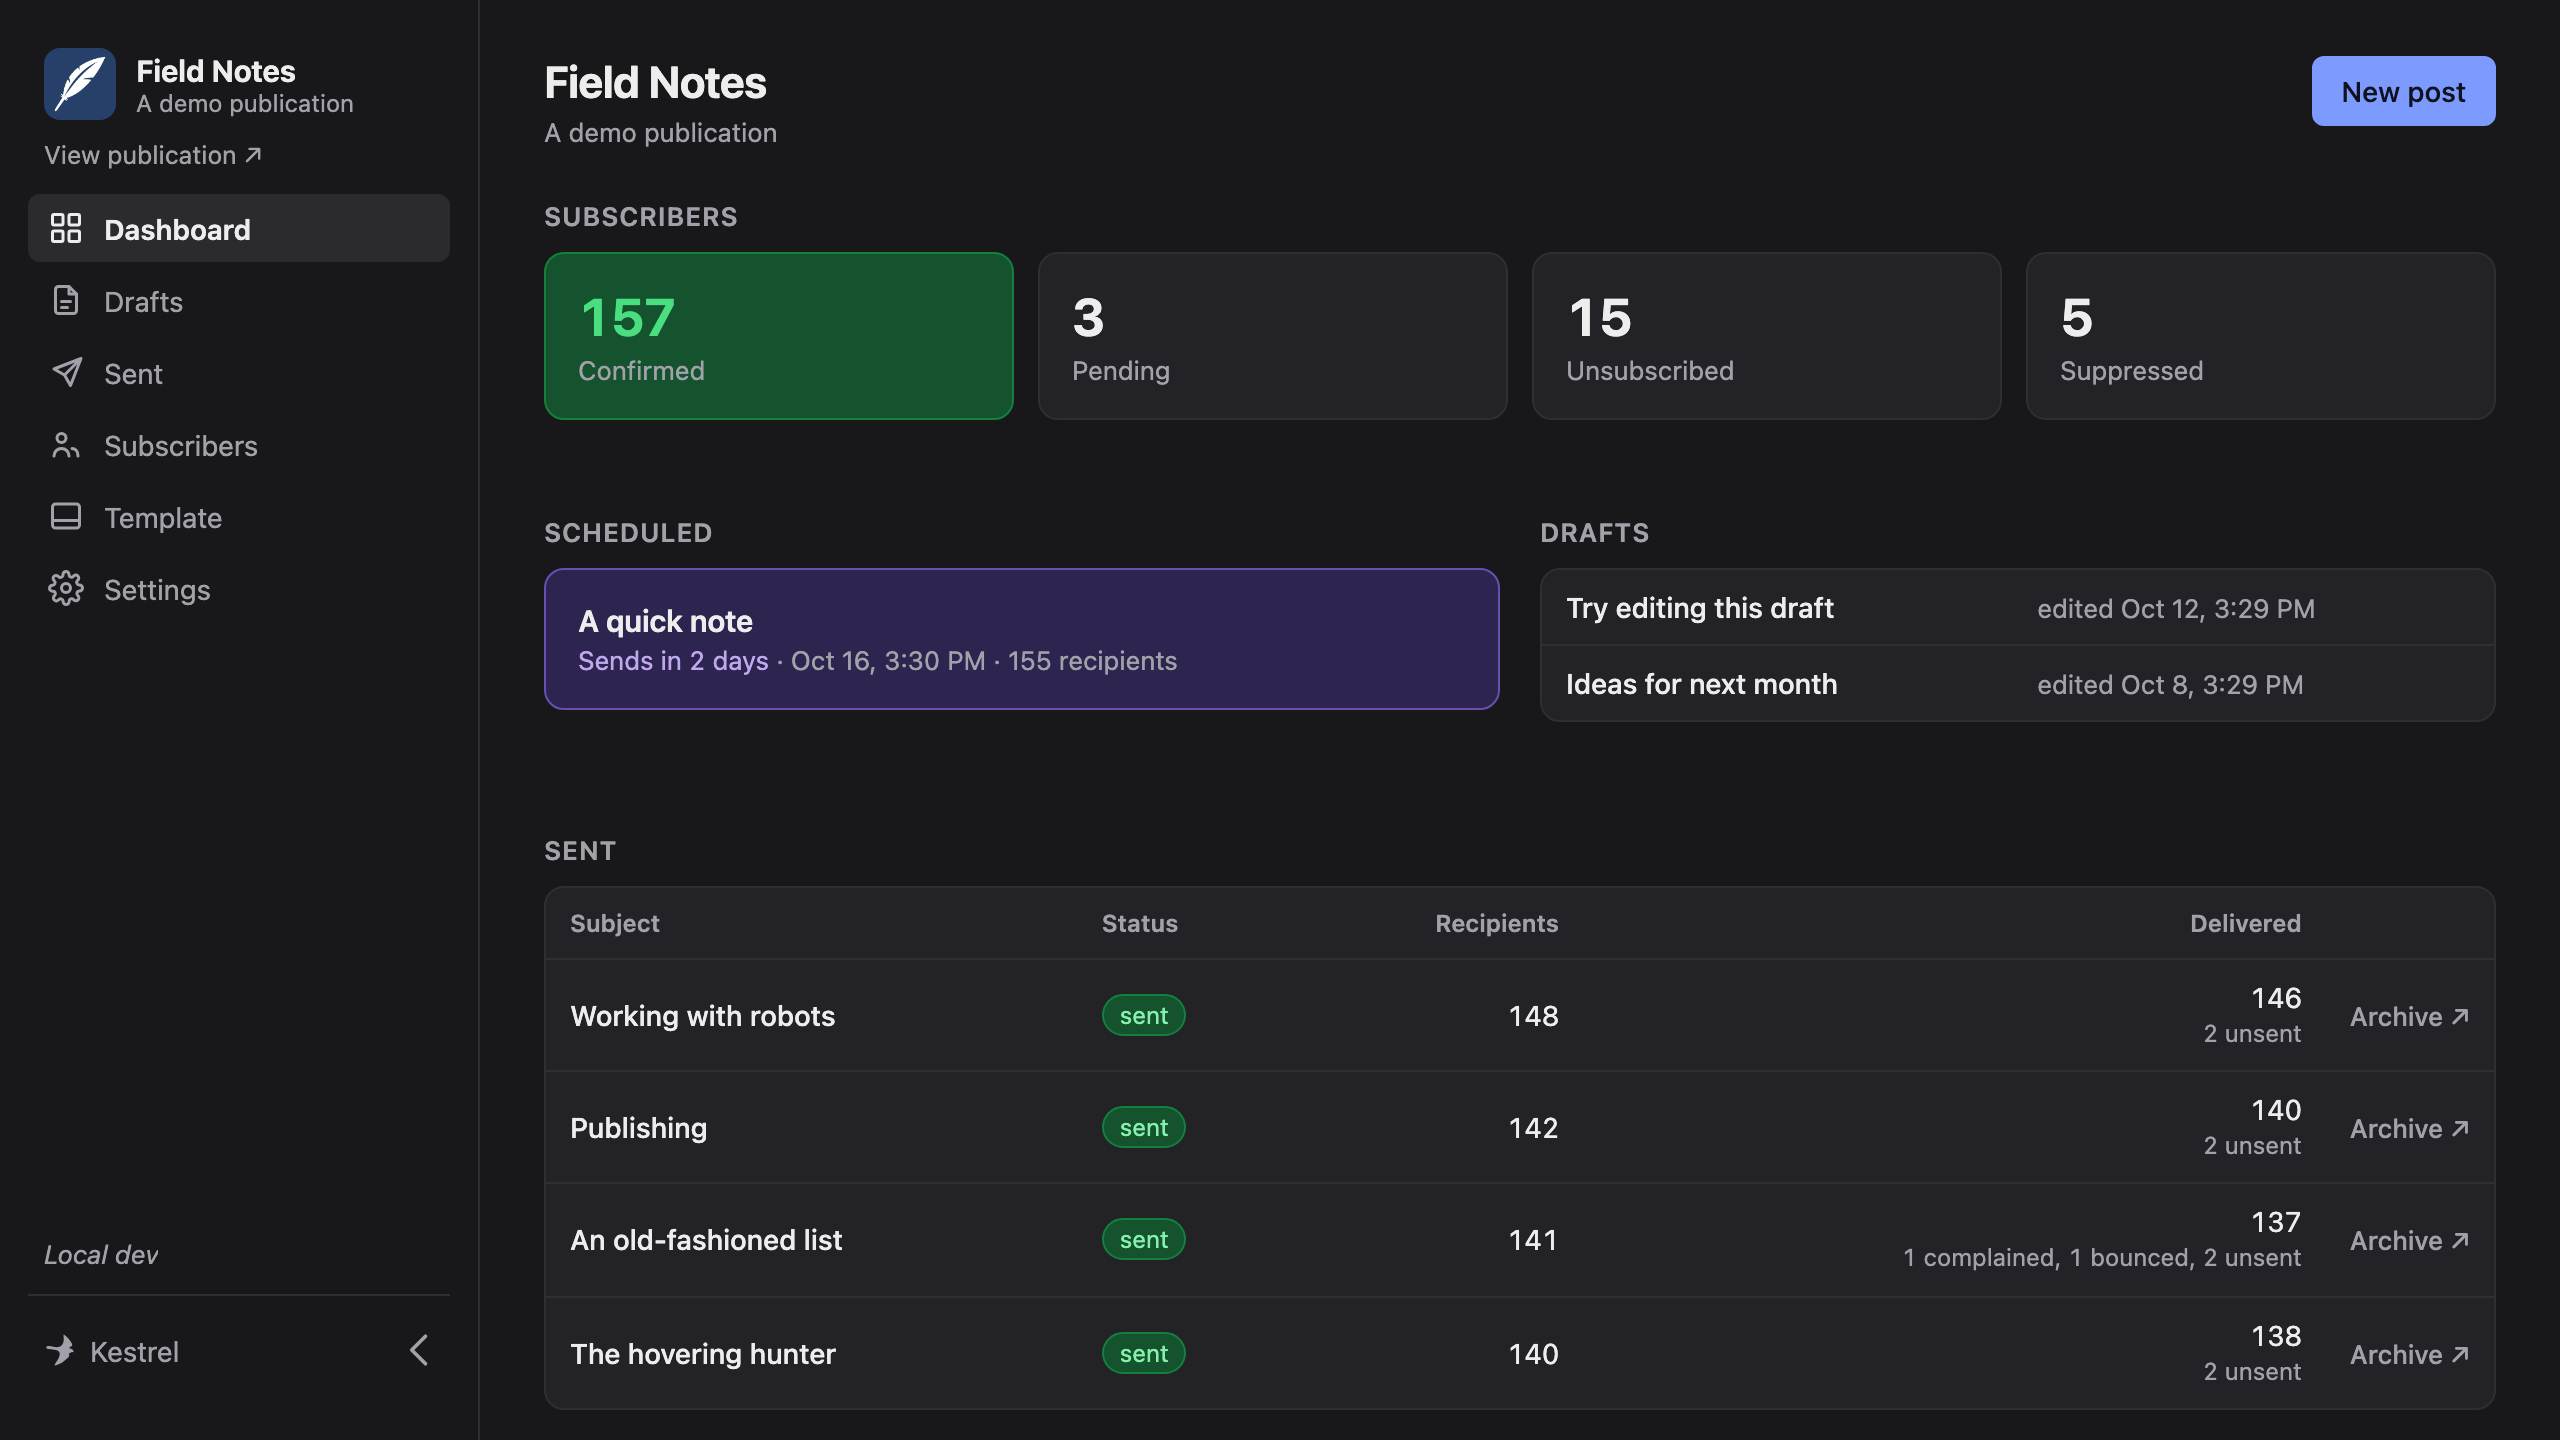
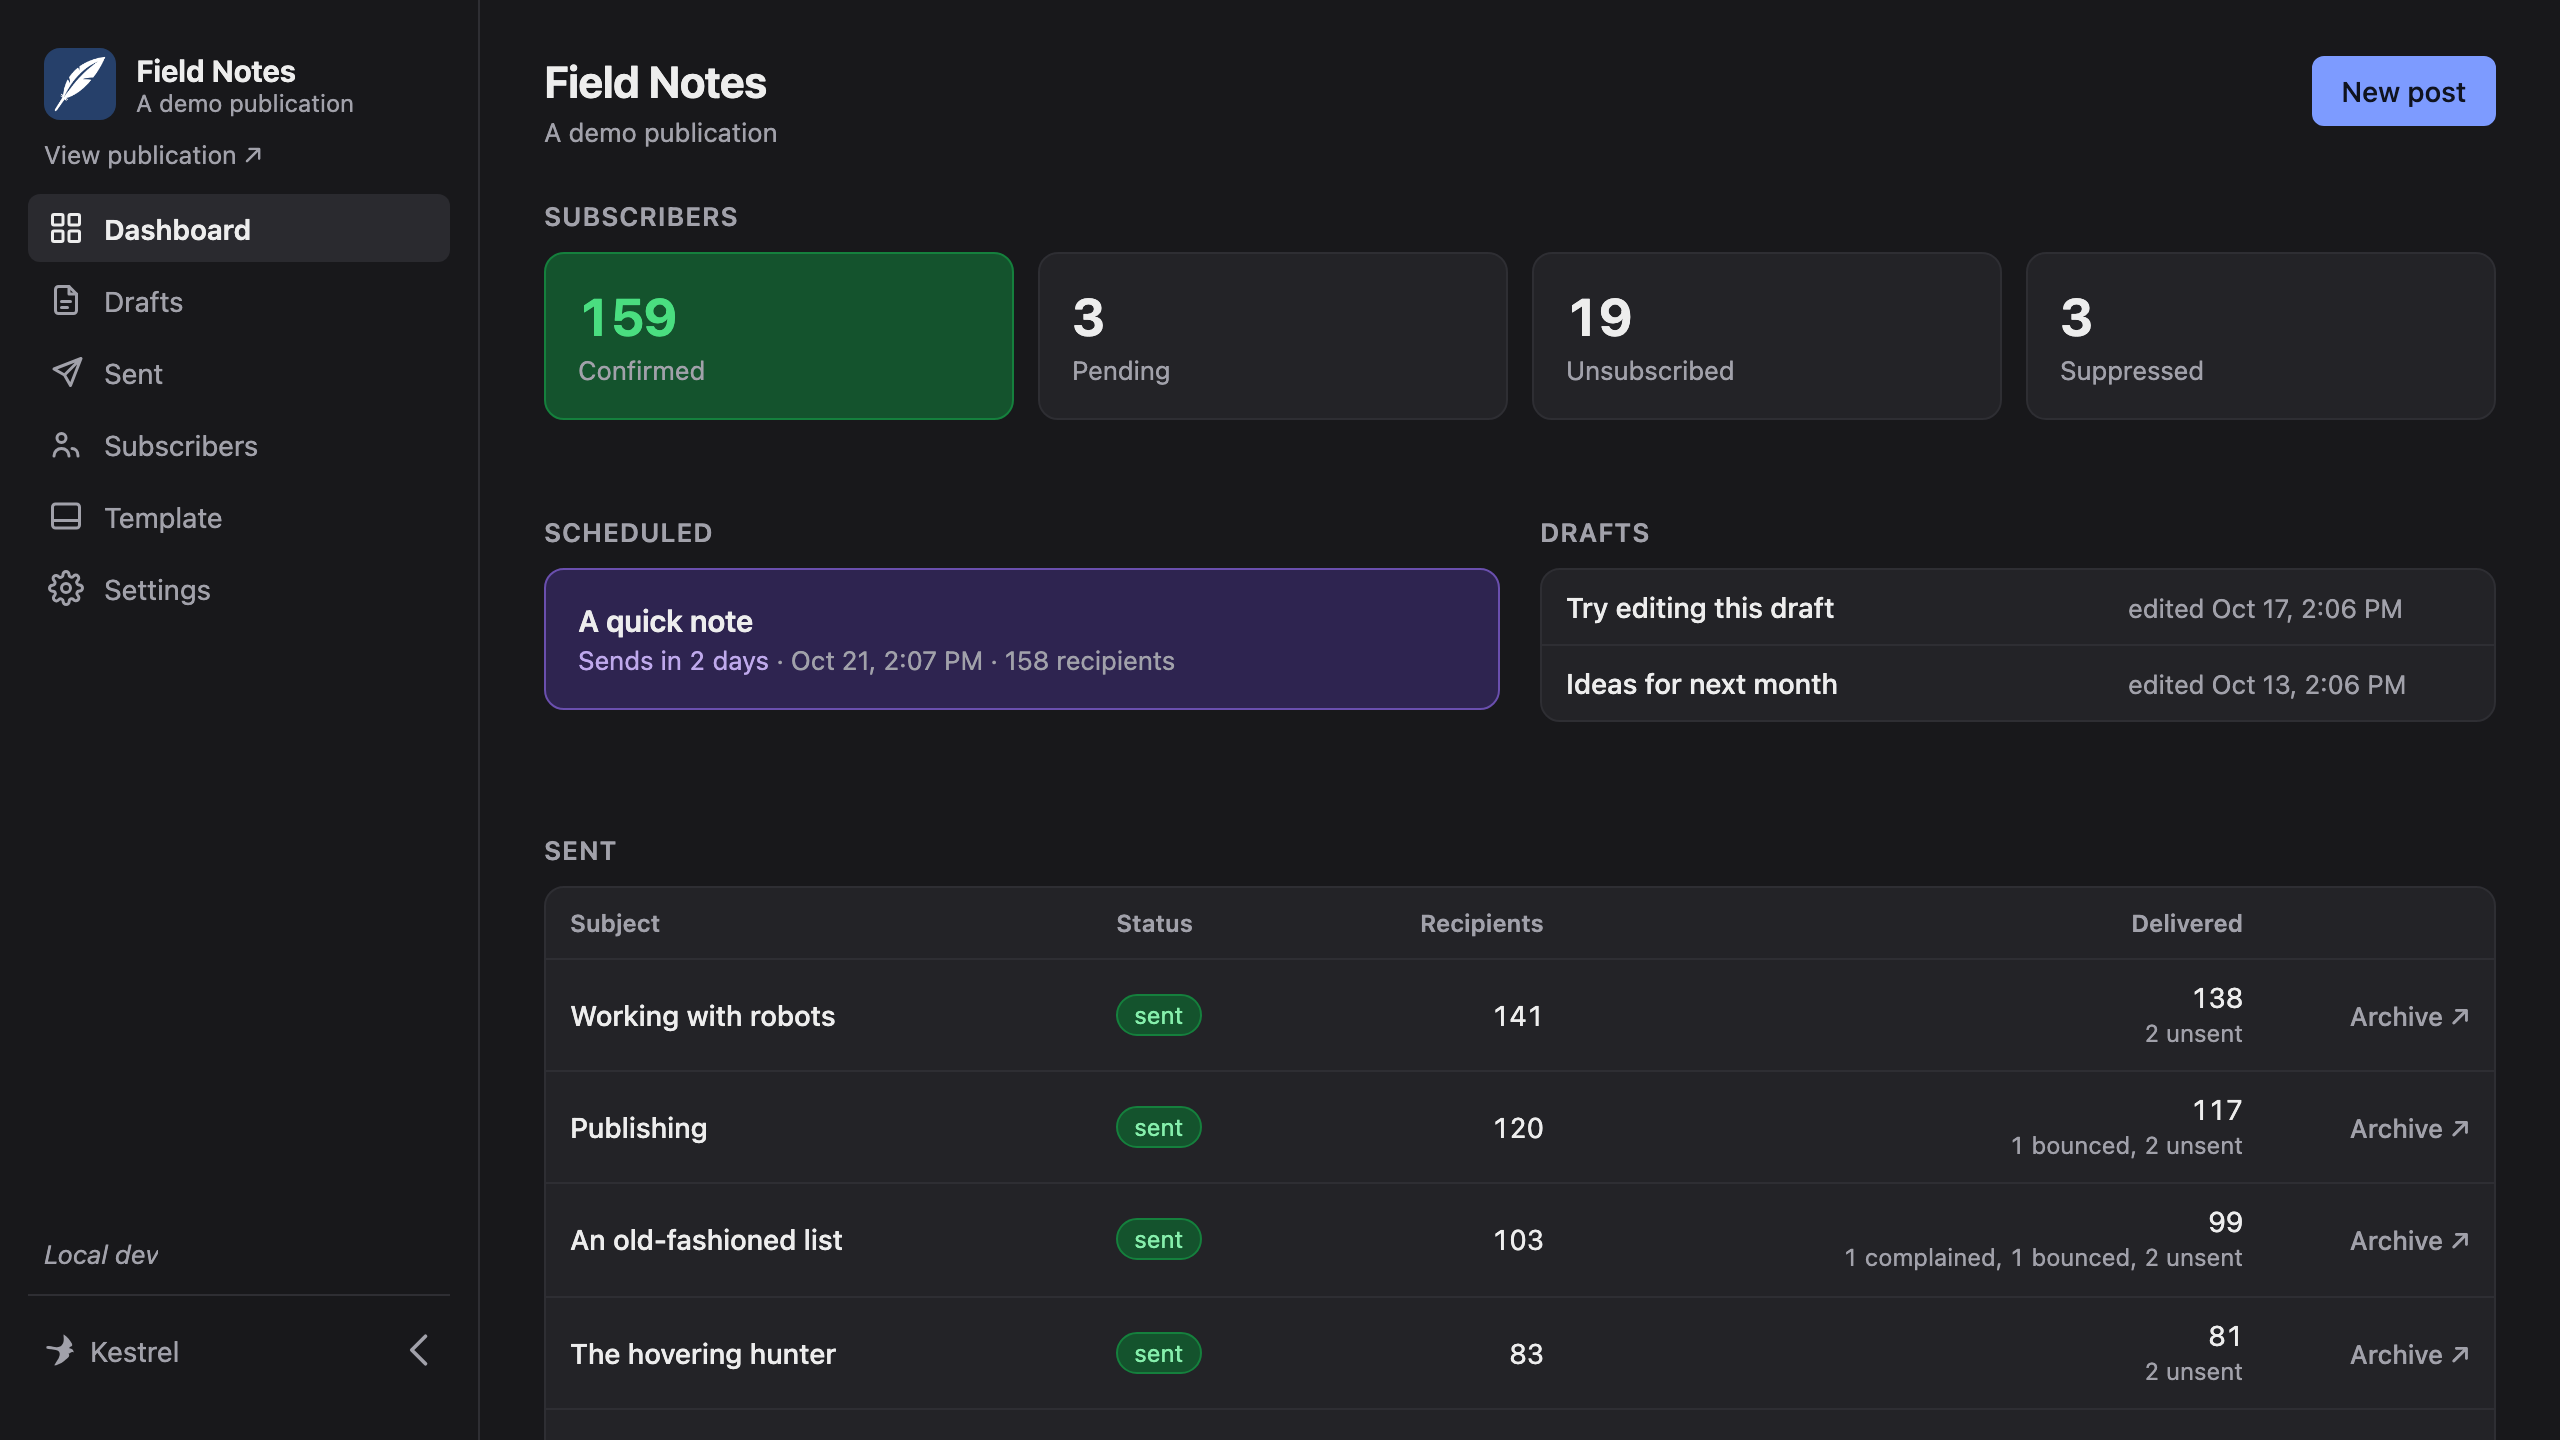
Pin kestrel to v1.13.0, with complaints as unsubscribes and the 1,000-subscriber Free line (#73)
1.13.0 makes a spam complaint unsubscribe the reader instead of suppressing the address, and draws Workers Free's line at about 1,000 subscribers rather than 5,000, so the landing's Send, Delivery, and Get started copy says so. The hero dashboard shots are recaptured from a seeded v1.13.0 dev server, whose Suppressed tile no longer counts complaints.

diff --git a/layouts/index.html b/layouts/index.html
@@ -67,8 +67,8 @@
       <div class="flow-step">
         <h3>Send to confirmed subscribers</h3>
         <p>Only subscribers whose consent is on record receive it. Nobody is mailed
-          twice, even if a send has to resume, and bounces and spam complaints
-          suppress on their own.</p>
+          twice, even if a send has to resume. A bounce stops mail to that address,
+          and a spam complaint unsubscribes the reader, on their own.</p>
       </div>
       <div class="flow-step">
         <h3>Archived automatically</h3>
@@ -158,8 +158,8 @@
       <div class="card">
         <p class="k">The delivery</p>
         <h3>An auditable record</h3>
-        <p>Each send records who received which post, plus suppressions from
-          hard bounces and spam complaints. You control the whole trail.</p>
+        <p>Each send records who received which post, and every bounce and spam
+          complaint it drew. You control the whole trail.</p>
       </div>
       <div class="card">
         <p class="k">The archive</p>
@@ -274,8 +274,8 @@
               <li>A GitHub account, or another Git host, for your instance's repository</li>
             </ul>
             <p>No per-subscriber fees. You pay Amazon SES's rates per email.
-              Cloudflare's free Workers plan suits a list of up to about 5,000 subscribers,
-              and sends to all of them in about 25 minutes once AWS raises your SES send
+              Cloudflare's free Workers plan suits a list of up to about 1,000 subscribers,
+              and sends to all of them in about 5 minutes once AWS raises your SES send
               rate to 50 a second, which costs nothing. A larger list belongs on
               Cloudflare's $5 Workers Paid plan, for the database's daily writes as well as
               faster sends.</p>
